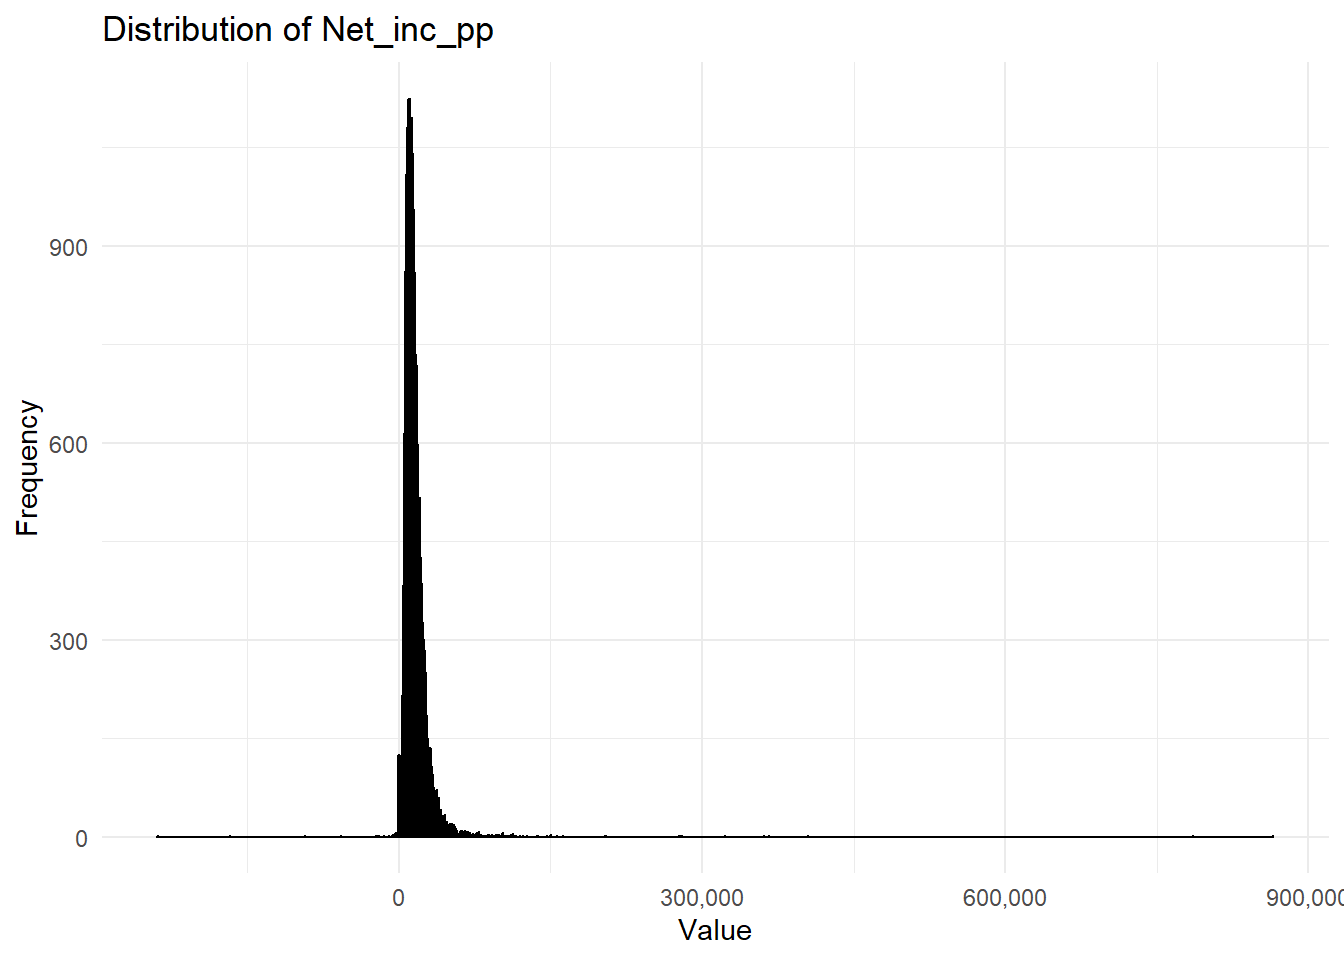
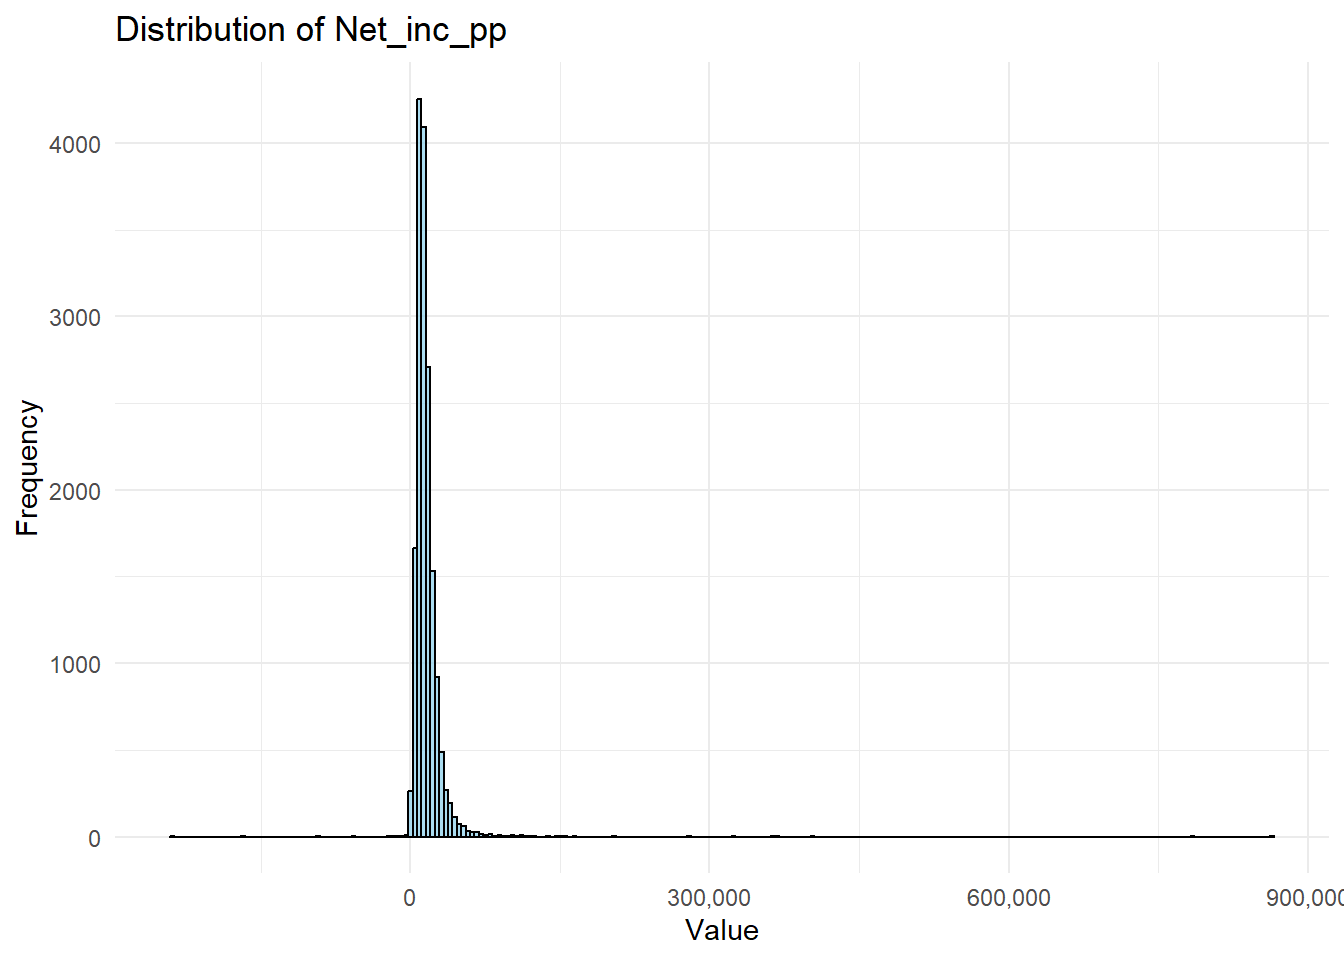
update

diff --git a/docs/labs/03.QualitativeVariable.html b/docs/labs/03.QualitativeVariable.html
@@ -228,10 +228,7 @@ pre > code.sourceCode > span > a:first-child::before { text-decoration: underlin
   <li><a href="#change-the-baseline-category" id="toc-change-the-baseline-category" class="nav-link" data-scroll-target="#change-the-baseline-category"><span class="header-section-number">4.3.2</span> <strong>Change the baseline category</strong></a></li>
   <li><a href="#recode-the-region-variable-and-explore-regional-inequality-in-health" id="toc-recode-the-region-variable-and-explore-regional-inequality-in-health" class="nav-link" data-scroll-target="#recode-the-region-variable-and-explore-regional-inequality-in-health"><span class="header-section-number">4.3.3</span> Recode the Region variable and explore regional inequality in health</a></li>
   </ul></li>
-  <li><a href="#predictions-using-fitted-regression-model" id="toc-predictions-using-fitted-regression-model" class="nav-link" data-scroll-target="#predictions-using-fitted-regression-model"><span class="header-section-number">4.4</span> Predictions using fitted regression model</a>
-  <ul class="collapse">
-  <li><a href="#write-down-the-long-term-sick-or-disabled-regression-model-with-the-new-region-label-categorical-variables" id="toc-write-down-the-long-term-sick-or-disabled-regression-model-with-the-new-region-label-categorical-variables" class="nav-link" data-scroll-target="#write-down-the-long-term-sick-or-disabled-regression-model-with-the-new-region-label-categorical-variables"><span class="header-section-number">4.4.1</span> <strong>Write down the % long term sick or disabled regression model with the new region label categorical variables</strong></a></li>
-  </ul></li>
+  <li><a href="#predictions-using-fitted-regression-model" id="toc-predictions-using-fitted-regression-model" class="nav-link" data-scroll-target="#predictions-using-fitted-regression-model"><span class="header-section-number">4.4</span> Predictions using fitted regression model</a></li>
   <li><a href="#extension-activities" id="toc-extension-activities" class="nav-link" data-scroll-target="#extension-activities"><span class="header-section-number">4.5</span> <strong>Extension activities</strong></a></li>
   </ul>
 <div class="toc-actions"><ul><li><a href="https://github.com/GDSL-UL/stats/edit/main/labs/03.QualitativeVariable.qmd" class="toc-action"><i class="bi bi-github"></i>Edit this page</a></li></ul></div></nav>
@@ -647,7 +644,7 @@ Cramer's V        : 0.329 </code></pre>
 <div class="cell">
 <div class="sourceCode cell-code" id="cb46"><pre class="sourceCode r code-with-copy"><code class="sourceCode r"><span id="cb46-1"><a href="#cb46-1" aria-hidden="true" tabindex="-1"></a><span class="fu">ggplot</span>(frs_df, <span class="fu">aes</span>(<span class="at">x =</span> Net_inc_pp)) <span class="sc">+</span></span>
 <span id="cb46-2"><a href="#cb46-2" aria-hidden="true" tabindex="-1"></a>  <span class="fu">geom_histogram</span>(</span>
-<span id="cb46-3"><a href="#cb46-3" aria-hidden="true" tabindex="-1"></a>    <span class="at">bins =</span> <span class="dv">1000</span>,</span>
+<span id="cb46-3"><a href="#cb46-3" aria-hidden="true" tabindex="-1"></a>    <span class="at">bins =</span> <span class="dv">250</span>, <span class="co">#A higher bins value means more, narrower bars, covers smaller range of value</span></span>
 <span id="cb46-4"><a href="#cb46-4" aria-hidden="true" tabindex="-1"></a>    <span class="at">color =</span> <span class="st">"black"</span>,</span>
 <span id="cb46-5"><a href="#cb46-5" aria-hidden="true" tabindex="-1"></a>    <span class="at">fill =</span> <span class="st">"skyblue"</span>,</span>
 <span id="cb46-6"><a href="#cb46-6" aria-hidden="true" tabindex="-1"></a>    <span class="at">alpha =</span> <span class="fl">0.7</span></span>
@@ -1196,15 +1193,13 @@ F-statistic:   118 on 7 and 323 DF,  p-value: &lt; 2.2e-16</code></pre>
 </section>
 <section id="predictions-using-fitted-regression-model" class="level2" data-number="4.4">
 <h2 data-number="4.4" class="anchored" data-anchor-id="predictions-using-fitted-regression-model"><span class="header-section-number">4.4</span> Predictions using fitted regression model</h2>
-<section id="write-down-the-long-term-sick-or-disabled-regression-model-with-the-new-region-label-categorical-variables" class="level3" data-number="4.4.1">
-<h3 data-number="4.4.1" class="anchored" data-anchor-id="write-down-the-long-term-sick-or-disabled-regression-model-with-the-new-region-label-categorical-variables"><span class="header-section-number">4.4.1</span> <strong>Write down the % long term sick or disabled regression model with the new region label categorical variables</strong></h3>
+<p><strong>Write down the % long term sick or disabled regression model with the new region label categorical variables.</strong></p>
 <p>Relating to this week’s lecture, the % <code>pct_Longterm_sick_or_disabled</code> is equal to:</p>
 <p><strong>[write down the model]</strong></p>
 <div style="background-color: #FFFBCC; padding: 10px; border-radius: 5px; border: 1px solid #E1C948;">
 <p><strong>Q6. Now imagine that the values of variables <em>pct_Males, pct_No_qualifications, and pct_Higher_manager_prof</em> are 49, 23 and 11, respectively, what would the percentage of persons with long-term sick/disable in Wales and London be?</strong></p>
 </div>
 <p>Check the answer at the end of this practical page.</p>
-</section>
 </section>
 <section id="extension-activities" class="level2" data-number="4.5">
 <h2 data-number="4.5" class="anchored" data-anchor-id="extension-activities"><span class="header-section-number">4.5</span> <strong>Extension activities</strong></h2>
@@ -1216,7 +1211,7 @@ F-statistic:   118 on 7 and 323 DF,  p-value: &lt; 2.2e-16</code></pre>
 <li><p>Think about other potential factors of long-term illness and income, and then test your ideas with linear regression models</p></li>
 <li><p>Summaries your model outputs and interpret the results.</p></li>
 </ul>
-<p><strong>Answer of the written down model and Q5</strong></p>
+<p><strong>Answer of the written down model and Q6</strong></p>
 <p>The model of the new region label is: <em>pct_Longterm_sick_or_disabled</em> (%) <em>= 9.98+ (-0.1842)* pct_Males</em> (%) <em>+ 0.2014 * pct_No_qualifications</em> (%) <em>+ (-0.0341) * pct_Higher_manager_prof</em> + <em>(0.4742) * North + (-0.5063)</em> * South + (-0.4103) * Midlands + <em>1.2518 * Wales.</em> But should be aware that the relation between <em>pct_Higher_manager_prof</em> and <em>pct_Longterm_sick_or_disabled</em> is not statistically significant.</p>
 <p>So if the values of variables <em>pct_Males, pct_No_qualifications, and pct_Higher_manager_prof</em> are 49, 23 and 11,</p>
 <p>the model of Wales will be: <em>pct_Longterm_sick_or_disabled</em> (%) <em>= 9.98+ (-0.1842)* 49</em> <em>+ 0.2014 * 23</em> <em>+ (-0.0341) * 11 + (0.4742) * 0+ (-0.5063)</em> * 0+ (-0.4103) * 0+ <em>1.2518 * 1</em>(you can direct paste the number sentence into your R studio Console and the result will be returned)</p>

diff --git a/index.tex b/index.tex
@@ -4438,7 +4438,7 @@ visualised by using \texttt{ggplot()}
 \begin{Highlighting}[]
 \FunctionTok{ggplot}\NormalTok{(frs\_df, }\FunctionTok{aes}\NormalTok{(}\AttributeTok{x =}\NormalTok{ Net\_inc\_pp)) }\SpecialCharTok{+}
   \FunctionTok{geom\_histogram}\NormalTok{(}
-    \AttributeTok{bins =} \DecValTok{1000}\NormalTok{,}
+    \AttributeTok{bins =} \DecValTok{250}\NormalTok{, }\CommentTok{\#A higher bins value means more, narrower bars, covers smaller range of value}
     \AttributeTok{color =} \StringTok{"black"}\NormalTok{,}
     \AttributeTok{fill =} \StringTok{"skyblue"}\NormalTok{,}
     \AttributeTok{alpha =} \FloatTok{0.7}
@@ -5303,9 +5303,8 @@ health outcome?}
 \section{Predictions using fitted regression
 model}\label{predictions-using-fitted-regression-model}
 
-\subsection{\texorpdfstring{\textbf{Write down the \% long term sick or
-disabled regression model with the new region label categorical
-variables}}{Write down the \% long term sick or disabled regression model with the new region label categorical variables}}\label{write-down-the-long-term-sick-or-disabled-regression-model-with-the-new-region-label-categorical-variables}
+\textbf{Write down the \% long term sick or disabled regression model
+with the new region label categorical variables.}
 
 Relating to this week's lecture, the \%
 \texttt{pct\_Longterm\_sick\_or\_disabled} is equal to:
@@ -5342,7 +5341,7 @@ Assignment 1 in progress. For this week, try whether you can:
   Summaries your model outputs and interpret the results.
 \end{itemize}
 
-\textbf{Answer of the written down model and Q5}
+\textbf{Answer of the written down model and Q6}
 
 The model of the new region label is:
 \emph{pct\_Longterm\_sick\_or\_disabled} (\%) \emph{= 9.98+ (-0.1842)*
